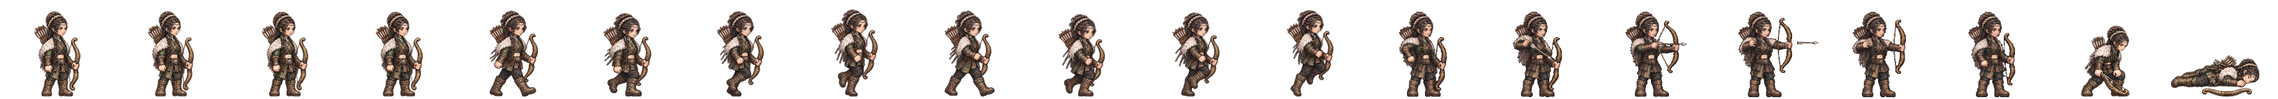
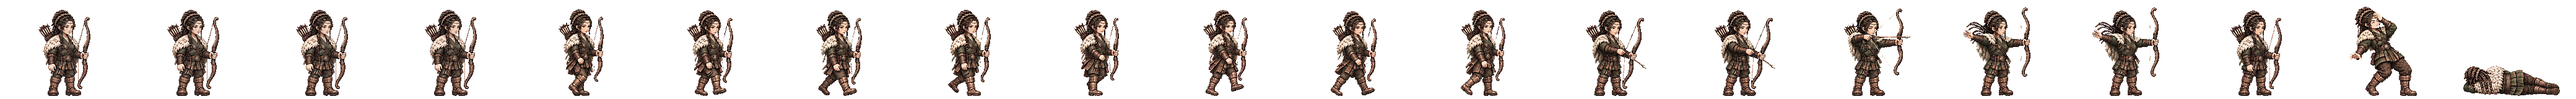
행인 너울 전투 띠를 새 방식으로: 서기·걷기·활 쏘기 네 칸·개성 동작·쓰러짐(단정)·맞음 (Codex 그림 · 걷기·활 쏘기는 한 번 다시 받음 · 활 길이 서기의 80~89%)
Claude-Session: https://claude.ai/code/session_01TRiuN7s6aDfSnaHxrkctmU

Changed region(s): [[0.0, 0.0938, 1.0, 1.0]]

diff --git a/src/realm/data/spritePx.ts b/src/realm/data/spritePx.ts
@@ -1,3 +1,3 @@
 /** public/realm/anim-px/manifest.json 의 사본 — tools/sprite-normalize.mjs 가 만든다 (손으로 고치지 말 것). 칸 [가로, 세로] · feet = 발 줄(칸 위에서 y) · bodyPx = 서 있는 몸 키 */
 import { expandManifest } from './sprite-manifest.ts'
-export const SPRITE_PX: Readonly<Record<string, { readonly cell: readonly [number, number]; readonly feet: number; readonly bodyPx: number; readonly kind: 'general' | 'soldier' | 'folk' | 'crowd'; readonly cells: number }>> = expandManifest<{ readonly cell: readonly [number, number]; readonly feet: number; readonly bodyPx: number; readonly kind: 'general' | 'soldier' | 'folk' | 'crowd'; readonly cells: number }>([{"cell":[166,128],"feet":126,"bodyPx":124,"kind":"soldier","cells":20},{"cell":[116,128],"feet":126,"bodyPx":117,"kind":"soldier","cells":20},{"cell":[127,128],"feet":126,"bodyPx":116,"kind":"soldier","cells":20},{"cell":[269,128],"feet":126,"bodyPx":126,"kind":"soldier","cells":20},{"cell":[503,128],"feet":126,"bodyPx":127,"kind":"soldier","cells":20},{"cell":[614,128],"feet":126,"bodyPx":126,"kind":"soldier","cells":20},{"cell":[200,160],"feet":156,"bodyPx":138,"kind":"general","cells":20},{"cell":[208,160],"feet":155,"bodyPx":138,"kind":"general","cells":20},{"cell":[208,160],"feet":154,"bodyPx":138,"kind":"general","cells":20},{"cell":[304,160],"feet":155,"bodyPx":135,"kind":"general","cells":20},{"cell":[184,160],"feet":156,"bodyPx":138,"kind":"general","cells":20},{"cell":[208,160],"feet":154,"bodyPx":136,"kind":"general","cells":20},{"cell":[232,160],"feet":156,"bodyPx":138,"kind":"general","cells":20},{"cell":[208,160],"feet":156,"bodyPx":138,"kind":"general","cells":20},{"cell":[168,160],"feet":156,"bodyPx":124,"kind":"general","cells":20},{"cell":[216,160],"feet":156,"bodyPx":130,"kind":"general","cells":20},{"cell":[200,160],"feet":156,"bodyPx":116,"kind":"general","cells":20},{"cell":[192,160],"feet":156,"bodyPx":138,"kind":"general","cells":20},{"cell":[208,160],"feet":154,"bodyPx":135,"kind":"general","cells":20},{"cell":[280,160],"feet":156,"bodyPx":138,"kind":"general","cells":20},{"cell":[232,160],"feet":156,"bodyPx":134,"kind":"general","cells":20},{"cell":[144,160],"feet":156,"bodyPx":70,"kind":"general","cells":20},{"cell":[208,160],"feet":156,"bodyPx":70,"kind":"general","cells":20},{"cell":[192,160],"feet":156,"bodyPx":70,"kind":"general","cells":20},{"cell":[240,160],"feet":155,"bodyPx":138,"kind":"general","cells":20},{"cell":[192,160],"feet":156,"bodyPx":128,"kind":"general","cells":20},{"cell":[208,160],"feet":154,"bodyPx":137,"kind":"general","cells":20},{"cell":[216,160],"feet":156,"bodyPx":138,"kind":"general","cells":20},{"cell":[208,160],"feet":156,"bodyPx":134,"kind":"general","cells":20},{"cell":[208,160],"feet":154,"bodyPx":130,"kind":"general","cells":20},{"cell":[248,160],"feet":156,"bodyPx":138,"kind":"general","cells":20},{"cell":[248,160],"feet":155,"bodyPx":138,"kind":"general","cells":20},{"cell":[192,160],"feet":155,"bodyPx":138,"kind":"general","cells":20},{"cell":[192,160],"feet":156,"bodyPx":124,"kind":"general","cells":20},{"cell":[208,160],"feet":154,"bodyPx":131,"kind":"general","cells":20},{"cell":[240,160],"feet":156,"bodyPx":138,"kind":"general","cells":20},{"cell":[232,160],"feet":156,"bodyPx":73,"kind":"general","cells":20},{"cell":[224,160],"feet":156,"bodyPx":138,"kind":"general","cells":20},{"cell":[224,160],"feet":156,"bodyPx":128,"kind":"general","cells":20},{"cell":[176,160],"feet":156,"bodyPx":129,"kind":"general","cells":20},{"cell":[208,160],"feet":154,"bodyPx":139,"kind":"general","cells":20},{"cell":[232,160],"feet":155,"bodyPx":138,"kind":"general","cells":20},{"cell":[208,160],"feet":156,"bodyPx":132,"kind":"general","cells":20},{"cell":[184,160],"feet":156,"bodyPx":122,"kind":"general","cells":20},{"cell":[280,160],"feet":155,"bodyPx":133,"kind":"general","cells":20},{"cell":[176,160],"feet":156,"bodyPx":70,"kind":"general","cells":20},{"cell":[186,128],"feet":126,"bodyPx":127,"kind":"soldier","cells":20},{"cell":[298,128],"feet":126,"bodyPx":126,"kind":"soldier","cells":20},{"cell":[82,128],"feet":126,"bodyPx":114,"kind":"folk","cells":8},{"cell":[134,128],"feet":126,"bodyPx":119,"kind":"soldier","cells":20},{"cell":[380,128],"feet":126,"bodyPx":124,"kind":"soldier","cells":20},{"cell":[114,128],"feet":126,"bodyPx":115,"kind":"soldier","cells":20},{"cell":[122,128],"feet":126,"bodyPx":114,"kind":"soldier","cells":20},{"cell":[254,128],"feet":126,"bodyPx":128,"kind":"soldier","cells":20},{"cell":[438,128],"feet":126,"bodyPx":126,"kind":"soldier","cells":20},{"cell":[88,128],"feet":126,"bodyPx":113,"kind":"folk","cells":8},{"cell":[100,128],"feet":126,"bodyPx":115,"kind":"folk","cells":8},{"cell":[108,128],"feet":126,"bodyPx":115,"kind":"folk","cells":8},{"cell":[63,128],"feet":126,"bodyPx":113,"kind":"folk","cells":8},{"cell":[69,96],"feet":96,"bodyPx":96,"kind":"crowd","cells":1},{"cell":[54,96],"feet":96,"bodyPx":96,"kind":"crowd","cells":1},{"cell":[47,96],"feet":96,"bodyPx":96,"kind":"crowd","cells":1},{"cell":[49,96],"feet":96,"bodyPx":96,"kind":"crowd","cells":1},{"cell":[57,96],"feet":96,"bodyPx":96,"kind":"crowd","cells":1},{"cell":[55,96],"feet":96,"bodyPx":96,"kind":"crowd","cells":1},{"cell":[45,96],"feet":96,"bodyPx":96,"kind":"crowd","cells":1},{"cell":[53,96],"feet":96,"bodyPx":96,"kind":"crowd","cells":1},{"cell":[64,96],"feet":96,"bodyPx":96,"kind":"crowd","cells":1},{"cell":[264,160],"feet":156,"bodyPx":138,"kind":"general","cells":20},{"cell":[184,160],"feet":156,"bodyPx":124,"kind":"general","cells":20},{"cell":[256,160],"feet":156,"bodyPx":138,"kind":"general","cells":20},{"cell":[208,160],"feet":154,"bodyPx":134,"kind":"general","cells":20},{"cell":[224,160],"feet":156,"bodyPx":133,"kind":"general","cells":20},{"cell":[184,160],"feet":156,"bodyPx":137,"kind":"general","cells":20},{"cell":[176,160],"feet":156,"bodyPx":130,"kind":"general","cells":20},{"cell":[216,160],"feet":156,"bodyPx":134,"kind":"general","cells":20},{"cell":[216,160],"feet":156,"bodyPx":132,"kind":"general","cells":20},{"cell":[288,160],"feet":156,"bodyPx":138,"kind":"general","cells":20},{"cell":[192,160],"feet":156,"bodyPx":118,"kind":"general","cells":20},{"cell":[208,160],"feet":154,"bodyPx":132,"kind":"general","cells":20},{"cell":[208,160],"feet":154,"bodyPx":128,"kind":"general","cells":20},{"cell":[240,160],"feet":156,"bodyPx":128,"kind":"general","cells":20},{"cell":[184,160],"feet":156,"bodyPx":132,"kind":"general","cells":20},{"cell":[208,160],"feet":156,"bodyPx":123,"kind":"general","cells":20},{"cell":[192,160],"feet":156,"bodyPx":135,"kind":"general","cells":20},{"cell":[176,160],"feet":156,"bodyPx":116,"kind":"general","cells":20},{"cell":[272,160],"feet":156,"bodyPx":138,"kind":"general","cells":20},{"cell":[176,160],"feet":156,"bodyPx":138,"kind":"general","cells":20},{"cell":[176,160],"feet":156,"bodyPx":122,"kind":"general","cells":20},{"cell":[232,160],"feet":156,"bodyPx":127,"kind":"general","cells":20},{"cell":[184,160],"feet":156,"bodyPx":134,"kind":"general","cells":20},{"cell":[168,160],"feet":156,"bodyPx":138,"kind":"general","cells":20},{"cell":[176,160],"feet":156,"bodyPx":137,"kind":"general","cells":20},{"cell":[184,160],"feet":156,"bodyPx":133,"kind":"general","cells":20}],[["axe",0],["bandit-chief",1],["bandit-club",2],["boat",3],["bow",4],["crossbow",5],["gen-adogan",6],["gen-alpyeong",7],["gen-ara",8],["gen-areum",8],["gen-aryeong",9],["gen-bakdal",8],["gen-baram",8],["gen-bdanbi",10],["gen-beom",11],["gen-beombal",8],["gen-beomi",8],["gen-bira",12],["gen-biryu",13],["gen-budeul",8],["gen-byeol",8],["gen-daemusin",14],["gen-daeso",15],["gen-dallae2",8],["gen-dalli",8],["gen-damul",16],["gen-danbi",8],["gen-dangung",17],["gen-darae",18],["gen-dokmudeom",8],["gen-duman",19],["gen-eomni",8],["gen-eureum",20],["gen-g-bow",21],["gen-g-spear",22],["gen-g-sword",23],["gen-gaennae",8],["gen-gamsil",24],["gen-gaon",18],["gen-geota",13],["gen-geumbawi",10],["gen-geumha",25],["gen-goeun",8],["gen-gom",8],["gen-gomok",13],["gen-gureum",8],["gen-guryema",17],["gen-gwaeyu",12],["gen-haebi",8],["gen-haedal",6],["gen-haesol",8],["gen-halla",26],["gen-heo",8],["gen-hneoul",10],["gen-hogong",27],["gen-hojin",13],["gen-horselord",28],["gen-hwalmi",29],["gen-hyeokgeose",17],["gen-hyeopbo",6],["gen-irang",8],["gen-jibaekho",30],["gen-jinha",31],["gen-jita",32],["gen-jumong",33],["gen-keundol",7],["gen-maehwa",34],["gen-maenun",17],["gen-malgalgi",8],["gen-mari",35],["gen-maro",30],["gen-maryeo",13],["gen-mdallae",8],["gen-mir",6],["gen-mount",36],["gen-mulbeom",26],["gen-mulsae",26],["gen-musoe",27],["gen-noeul",8],["gen-nuri",8],["gen-ocheongan",37],["gen-odi",8],["gen-odogan",6],["gen-ogan",17],["gen-oi",38],["gen-olddaeso",20],["gen-onjo",39],["gen-pidogan",13],["gen-sagong",40],["gen-sdallae",6],["gen-sincheongan",8],["gen-singwigan",27],["gen-sinneoul",8],["gen-sobeol",41],["gen-soebi",8],["gen-soebo",42],["gen-soenun",40],["gen-sogeumbi",26],["gen-songbi",8],["gen-songyang",43],["gen-sori",8],["gen-soseono",44],["gen-suro",17],["gen-tahae",6],["gen-tneoul",8],["gen-w-bow",21],["gen-w-spear",45],["gen-waechief",13],["gen-wan",27],["gen-yeodogan",13],["gen-yucheongan",8],["gen-yusugan",30],["horse",46],["marine",47],["migrant",48],["militia",49],["pike",50],["pirate-captain",51],["pirate-sword",52],["shield",53],["spear",54],["villager-builder",55],["villager-farmer",56],["villager-porter",57],["villager-woman",58],["crowd-b1",59],["crowd-b2",60],["crowd-b3",61],["crowd-b4",62],["crowd-b5",63],["crowd-b6",64],["crowd-f1",59],["crowd-f2",64],["crowd-f3",65],["crowd-f4",66],["crowd-f5",59],["crowd-f6",67],["gen-dalbit",13],["gen-base-g-07-drunk-warrior",17],["gen-base-g-40-anya-adan",13],["gen-base-w-13-young-archer",8],["gen-base-g-03-sea-trader",35],["gen-base-w-10-pirate-captain",40],["gen-base-w-64-miri-dallae",40],["gen-base-g-41-goja-bau",35],["gen-base-g-42-dokro-garam",68],["gen-base-g-09-farmer-conscript",27],["gen-base-w-02-goguryeo-lady",8],["gen-base-w-17-mahan-pearl-diver",8],["gen-base-g-17-saro-isageum",42],["gen-base-g-18-daegaya-king",69],["gen-base-g-35-dabeol-dalgu",13],["gen-base-g-19-sabeol-veteran",27],["gen-base-w-23-usisan-whale-queen",8],["gen-base-g-36-gammun-gamdol",37],["gen-base-g-20-samul-sea-lord",70],["gen-base-g-37-eumjeup-jeup",10],["gen-base-g-38-chopal-palmae",17],["gen-base-w-75-daegaya-soemoe",8],["gen-base-g-45-dabeol-deulgae",10],["gen-base-g-04-jinhan-giant",13],["gen-base-g-08-veteran",13],["gen-base-w-18-jinhan-salt-widow",8],["gen-base-w-12-court-dancer",71],["gen-base-w-83-gyeonji-beodeul",72],["gen-base-w-05-baekje-queen",18],["gen-base-w-21-baekje-court-dancer",10],["gen-base-g-01-master-smith",73],["gen-base-g-93-jomun-solgae",74],["gen-base-g-57-bihwa-neup",35],["gen-base-w-72-eumjeup-beol",8],["gen-base-w-102-garak-dana",40],["gen-base-g-68-baekje-onnuri",13],["gen-base-w-27-mokji-jinha",6],["gen-base-g-22-ungcheon-gomnae",6],["gen-base-g-23-sangdang-soedal",13],["gen-base-g-24-wansan-onsan",6],["gen-base-g-25-balla-keunmoe",27],["gen-base-g-61-heomcheuk-bawi",27],["gen-base-g-88-wander-soeul",37],["gen-base-w-14-feast-spy",8],["gen-base-g-12-silla-youth",75],["gen-base-w-08-mahan-warrior",8],["gen-base-g-62-beonye-hanul",35],["gen-base-g-63-heomcheuk-beogeum",13],["gen-base-g-84-wander-seoneul",13],["gen-base-w-50-siljik-mulga",27],["gen-base-g-46-uga-nureongso",27],["gen-base-w-80-usan-gangchi",40],["gen-base-g-47-guga-sanyanggae",27],["gen-base-w-76-gampyeong-baetsagong",8],["gen-base-g-05-mahan-chieftain",76],["gen-base-g-58-usan-uhae",13],["gen-base-g-27-maek-maekdol",13],["gen-base-w-53-hwanna-gabi",40],["gen-base-w-29-golpo-janmul",30],["gen-base-g-53-baekje-haeru",6],["gen-base-w-71-yeonna-neoul",8],["gen-base-w-79-yangmaek-solmae",8],["gen-base-w-34-chopal-deulme",8],["gen-base-g-44-maga-malgup",77],["gen-base-w-31-dabeol-dalbit",40],["gen-base-g-51-biryuna-mulgyeol",37],["gen-base-g-48-gwanna-musoe",13],["gen-base-g-32-uga-sodu",12],["gen-base-g-49-goguryeo-sona",78],["gen-base-g-30-gwanna-soemoe",37],["gen-base-g-52-tamna-oreum",10],["gen-base-g-29-yeonna-myeongsol",33],["gen-base-w-56-dongokjeo-sogeum",71],["gen-base-g-54-mokji-mahan",12],["gen-base-g-33-jeoga-metdol",17],["gen-base-w-36-baekje-maena",8],["gen-base-w-38-sangdang-bulmae",40],["gen-base-w-39-gosaburi-galmae",8],["gen-base-w-40-mujin-munui",79],["gen-base-w-41-hwanna-beodeul",80],["gen-base-w-43-uga-nuri",70],["gen-base-w-45-tamna-oreumbi",10],["gen-base-g-60-golbeol-golgae",10],["gen-base-g-61-apdok-ap",27],["gen-base-g-62-gammun-gamnamu",6],["gen-base-g-63-chopal-yeoul",30],["gen-base-g-64-michuhol-sogeumkkun",35],["gen-base-g-65-sangdang-soemangchi",37],["gen-base-g-66-geonma-malbalgup",81],["gen-base-g-67-gosaburi-buri",82],["gen-base-g-68-mujin-bitgoeul",10],["gen-base-g-69-goryong-yong",37],["gen-base-g-70-siljik-pado",35],["gen-base-w-81-byeokjin-byeolbit",8],["gen-base-w-46-geonma-maru",8],["gen-base-w-48-mujin-mudeung",8],["gen-base-g-26-gampyeong-gaetbeol",12],["gen-base-g-60-eupcha-hangyeol",83],["gen-base-g-15-shaman-man",27],["gen-base-g-85-wander-ure",30],["gen-base-g-43-hwanna-amnok",13],["gen-base-g-50-bullae-gwaha",84],["gen-base-g-55-saro-bakdal",13],["gen-base-g-56-haseulla-gwahama",6],["gen-base-w-06-buyeo-huntress",26],["gen-base-w-22-dongye-tiger-huntress",8],["gen-base-w-25-bihwa-priestess",8],["gen-base-w-24-apdok-queen",8],["gen-base-w-61-iseo-sinae",8],["gen-base-w-26-iseo-tomboy-general",8],["gen-base-g-59-yangmaek-maekson",85],["gen-aw1-haebi",37],["gen-aw1-soseono",86],["gen-aw1-gamsil",10],["gen-aw1-mir",87],["gen-aw1-dangung",6],["gen-aw1-ara",37],["gen-aw1-jumong",88],["gen-aw1-onjo",89],["gen-aw1-base-w-83-gyeonji-beodeul",17],["gen-aw1-heo",68],["gen-aw1-base-g-38-chopal-palmae",6],["gen-aw1-base-w-25-bihwa-priestess",90],["gen-aw1-sori",91],["gen-aw1-gomok",6],["gen-aw1-irang",17],["gen-aw1-budeul",91],["gen-aw1-gom",35],["gen-aw1-sdallae",6],["gen-aw1-base-w-13-young-archer",6],["gen-aw1-base-w-36-baekje-maena",92],["gen-aw1-base-g-09-farmer-conscript",68],["gen-aw1-base-w-02-goguryeo-lady",93],["gen-aw1-haedal",10],["gen-aw1-hogong",6],["gen-aw1-maehwa",87],["gen-aw1-base-w-06-buyeo-huntress",12],["gen-aw1-base-w-08-mahan-warrior",37],["gen-aw1-base-w-29-golpo-janmul",37],["gen-aw1-base-w-31-dabeol-dalbit",17],["gen-aw1-base-w-38-sangdang-bulmae",91],["gen-aw1-bira",27],["gen-aw1-base-w-53-hwanna-gabi",91],["gen-aw1-base-w-56-dongokjeo-sogeum",87],["gen-aw1-base-w-72-eumjeup-beol",17],["gen-aw1-bdanbi",91],["gen-aw1-beom",10],["gen-aw1-beombal",10],["gen-aw1-byeol",17],["gen-aw1-dalli",87],["gen-aw1-malgalgi",30],["gen-aw1-sincheongan",27]])
+export const SPRITE_PX: Readonly<Record<string, { readonly cell: readonly [number, number]; readonly feet: number; readonly bodyPx: number; readonly kind: 'general' | 'soldier' | 'folk' | 'crowd'; readonly cells: number }>> = expandManifest<{ readonly cell: readonly [number, number]; readonly feet: number; readonly bodyPx: number; readonly kind: 'general' | 'soldier' | 'folk' | 'crowd'; readonly cells: number }>([{"cell":[166,128],"feet":126,"bodyPx":124,"kind":"soldier","cells":20},{"cell":[116,128],"feet":126,"bodyPx":117,"kind":"soldier","cells":20},{"cell":[127,128],"feet":126,"bodyPx":116,"kind":"soldier","cells":20},{"cell":[269,128],"feet":126,"bodyPx":126,"kind":"soldier","cells":20},{"cell":[503,128],"feet":126,"bodyPx":127,"kind":"soldier","cells":20},{"cell":[614,128],"feet":126,"bodyPx":126,"kind":"soldier","cells":20},{"cell":[200,160],"feet":156,"bodyPx":138,"kind":"general","cells":20},{"cell":[208,160],"feet":155,"bodyPx":138,"kind":"general","cells":20},{"cell":[208,160],"feet":154,"bodyPx":138,"kind":"general","cells":20},{"cell":[304,160],"feet":155,"bodyPx":135,"kind":"general","cells":20},{"cell":[184,160],"feet":156,"bodyPx":138,"kind":"general","cells":20},{"cell":[208,160],"feet":154,"bodyPx":136,"kind":"general","cells":20},{"cell":[232,160],"feet":156,"bodyPx":138,"kind":"general","cells":20},{"cell":[208,160],"feet":156,"bodyPx":138,"kind":"general","cells":20},{"cell":[168,160],"feet":156,"bodyPx":124,"kind":"general","cells":20},{"cell":[216,160],"feet":156,"bodyPx":130,"kind":"general","cells":20},{"cell":[200,160],"feet":156,"bodyPx":116,"kind":"general","cells":20},{"cell":[192,160],"feet":156,"bodyPx":138,"kind":"general","cells":20},{"cell":[208,160],"feet":154,"bodyPx":135,"kind":"general","cells":20},{"cell":[280,160],"feet":156,"bodyPx":138,"kind":"general","cells":20},{"cell":[232,160],"feet":156,"bodyPx":134,"kind":"general","cells":20},{"cell":[144,160],"feet":156,"bodyPx":70,"kind":"general","cells":20},{"cell":[208,160],"feet":156,"bodyPx":70,"kind":"general","cells":20},{"cell":[192,160],"feet":156,"bodyPx":70,"kind":"general","cells":20},{"cell":[240,160],"feet":155,"bodyPx":138,"kind":"general","cells":20},{"cell":[192,160],"feet":156,"bodyPx":128,"kind":"general","cells":20},{"cell":[208,160],"feet":154,"bodyPx":137,"kind":"general","cells":20},{"cell":[216,160],"feet":156,"bodyPx":138,"kind":"general","cells":20},{"cell":[208,160],"feet":156,"bodyPx":134,"kind":"general","cells":20},{"cell":[208,160],"feet":154,"bodyPx":130,"kind":"general","cells":20},{"cell":[248,160],"feet":156,"bodyPx":138,"kind":"general","cells":20},{"cell":[248,160],"feet":155,"bodyPx":138,"kind":"general","cells":20},{"cell":[192,160],"feet":155,"bodyPx":138,"kind":"general","cells":20},{"cell":[192,160],"feet":156,"bodyPx":124,"kind":"general","cells":20},{"cell":[208,160],"feet":154,"bodyPx":131,"kind":"general","cells":20},{"cell":[240,160],"feet":156,"bodyPx":138,"kind":"general","cells":20},{"cell":[232,160],"feet":156,"bodyPx":73,"kind":"general","cells":20},{"cell":[224,160],"feet":156,"bodyPx":138,"kind":"general","cells":20},{"cell":[224,160],"feet":156,"bodyPx":128,"kind":"general","cells":20},{"cell":[176,160],"feet":156,"bodyPx":129,"kind":"general","cells":20},{"cell":[208,160],"feet":154,"bodyPx":139,"kind":"general","cells":20},{"cell":[232,160],"feet":155,"bodyPx":138,"kind":"general","cells":20},{"cell":[208,160],"feet":156,"bodyPx":132,"kind":"general","cells":20},{"cell":[184,160],"feet":156,"bodyPx":122,"kind":"general","cells":20},{"cell":[280,160],"feet":155,"bodyPx":133,"kind":"general","cells":20},{"cell":[176,160],"feet":156,"bodyPx":70,"kind":"general","cells":20},{"cell":[186,128],"feet":126,"bodyPx":127,"kind":"soldier","cells":20},{"cell":[298,128],"feet":126,"bodyPx":126,"kind":"soldier","cells":20},{"cell":[82,128],"feet":126,"bodyPx":114,"kind":"folk","cells":8},{"cell":[134,128],"feet":126,"bodyPx":119,"kind":"soldier","cells":20},{"cell":[380,128],"feet":126,"bodyPx":124,"kind":"soldier","cells":20},{"cell":[114,128],"feet":126,"bodyPx":115,"kind":"soldier","cells":20},{"cell":[122,128],"feet":126,"bodyPx":114,"kind":"soldier","cells":20},{"cell":[254,128],"feet":126,"bodyPx":128,"kind":"soldier","cells":20},{"cell":[438,128],"feet":126,"bodyPx":126,"kind":"soldier","cells":20},{"cell":[88,128],"feet":126,"bodyPx":113,"kind":"folk","cells":8},{"cell":[100,128],"feet":126,"bodyPx":115,"kind":"folk","cells":8},{"cell":[108,128],"feet":126,"bodyPx":115,"kind":"folk","cells":8},{"cell":[63,128],"feet":126,"bodyPx":113,"kind":"folk","cells":8},{"cell":[69,96],"feet":96,"bodyPx":96,"kind":"crowd","cells":1},{"cell":[54,96],"feet":96,"bodyPx":96,"kind":"crowd","cells":1},{"cell":[47,96],"feet":96,"bodyPx":96,"kind":"crowd","cells":1},{"cell":[49,96],"feet":96,"bodyPx":96,"kind":"crowd","cells":1},{"cell":[57,96],"feet":96,"bodyPx":96,"kind":"crowd","cells":1},{"cell":[55,96],"feet":96,"bodyPx":96,"kind":"crowd","cells":1},{"cell":[45,96],"feet":96,"bodyPx":96,"kind":"crowd","cells":1},{"cell":[53,96],"feet":96,"bodyPx":96,"kind":"crowd","cells":1},{"cell":[64,96],"feet":96,"bodyPx":96,"kind":"crowd","cells":1},{"cell":[264,160],"feet":156,"bodyPx":138,"kind":"general","cells":20},{"cell":[184,160],"feet":156,"bodyPx":124,"kind":"general","cells":20},{"cell":[256,160],"feet":156,"bodyPx":138,"kind":"general","cells":20},{"cell":[208,160],"feet":154,"bodyPx":134,"kind":"general","cells":20},{"cell":[224,160],"feet":156,"bodyPx":133,"kind":"general","cells":20},{"cell":[184,160],"feet":156,"bodyPx":137,"kind":"general","cells":20},{"cell":[176,160],"feet":156,"bodyPx":130,"kind":"general","cells":20},{"cell":[216,160],"feet":156,"bodyPx":134,"kind":"general","cells":20},{"cell":[216,160],"feet":156,"bodyPx":132,"kind":"general","cells":20},{"cell":[288,160],"feet":156,"bodyPx":138,"kind":"general","cells":20},{"cell":[192,160],"feet":156,"bodyPx":118,"kind":"general","cells":20},{"cell":[208,160],"feet":154,"bodyPx":132,"kind":"general","cells":20},{"cell":[208,160],"feet":154,"bodyPx":128,"kind":"general","cells":20},{"cell":[240,160],"feet":156,"bodyPx":128,"kind":"general","cells":20},{"cell":[184,160],"feet":156,"bodyPx":132,"kind":"general","cells":20},{"cell":[208,160],"feet":156,"bodyPx":123,"kind":"general","cells":20},{"cell":[192,160],"feet":156,"bodyPx":135,"kind":"general","cells":20},{"cell":[176,160],"feet":156,"bodyPx":116,"kind":"general","cells":20},{"cell":[272,160],"feet":156,"bodyPx":138,"kind":"general","cells":20},{"cell":[176,160],"feet":156,"bodyPx":138,"kind":"general","cells":20},{"cell":[176,160],"feet":156,"bodyPx":122,"kind":"general","cells":20},{"cell":[232,160],"feet":156,"bodyPx":127,"kind":"general","cells":20},{"cell":[184,160],"feet":156,"bodyPx":134,"kind":"general","cells":20},{"cell":[168,160],"feet":156,"bodyPx":138,"kind":"general","cells":20},{"cell":[176,160],"feet":156,"bodyPx":137,"kind":"general","cells":20},{"cell":[184,160],"feet":156,"bodyPx":133,"kind":"general","cells":20}],[["axe",0],["bandit-chief",1],["bandit-club",2],["boat",3],["bow",4],["crossbow",5],["gen-adogan",6],["gen-alpyeong",7],["gen-ara",8],["gen-areum",8],["gen-aryeong",9],["gen-bakdal",8],["gen-baram",8],["gen-bdanbi",10],["gen-beom",11],["gen-beombal",8],["gen-beomi",8],["gen-bira",12],["gen-biryu",13],["gen-budeul",8],["gen-byeol",8],["gen-daemusin",14],["gen-daeso",15],["gen-dallae2",8],["gen-dalli",8],["gen-damul",16],["gen-danbi",8],["gen-dangung",17],["gen-darae",18],["gen-dokmudeom",8],["gen-duman",19],["gen-eomni",8],["gen-eureum",20],["gen-g-bow",21],["gen-g-spear",22],["gen-g-sword",23],["gen-gaennae",8],["gen-gamsil",24],["gen-gaon",18],["gen-geota",13],["gen-geumbawi",10],["gen-geumha",25],["gen-goeun",8],["gen-gom",8],["gen-gomok",13],["gen-gureum",8],["gen-guryema",17],["gen-gwaeyu",12],["gen-haebi",8],["gen-haedal",6],["gen-haesol",8],["gen-halla",26],["gen-heo",8],["gen-hneoul",27],["gen-hogong",27],["gen-hojin",13],["gen-horselord",28],["gen-hwalmi",29],["gen-hyeokgeose",17],["gen-hyeopbo",6],["gen-irang",8],["gen-jibaekho",30],["gen-jinha",31],["gen-jita",32],["gen-jumong",33],["gen-keundol",7],["gen-maehwa",34],["gen-maenun",17],["gen-malgalgi",8],["gen-mari",35],["gen-maro",30],["gen-maryeo",13],["gen-mdallae",8],["gen-mir",6],["gen-mount",36],["gen-mulbeom",26],["gen-mulsae",26],["gen-musoe",27],["gen-noeul",8],["gen-nuri",8],["gen-ocheongan",37],["gen-odi",8],["gen-odogan",6],["gen-ogan",17],["gen-oi",38],["gen-olddaeso",20],["gen-onjo",39],["gen-pidogan",13],["gen-sagong",40],["gen-sdallae",6],["gen-sincheongan",8],["gen-singwigan",27],["gen-sinneoul",8],["gen-sobeol",41],["gen-soebi",8],["gen-soebo",42],["gen-soenun",40],["gen-sogeumbi",26],["gen-songbi",8],["gen-songyang",43],["gen-sori",8],["gen-soseono",44],["gen-suro",17],["gen-tahae",6],["gen-tneoul",8],["gen-w-bow",21],["gen-w-spear",45],["gen-waechief",13],["gen-wan",27],["gen-yeodogan",13],["gen-yucheongan",8],["gen-yusugan",30],["horse",46],["marine",47],["migrant",48],["militia",49],["pike",50],["pirate-captain",51],["pirate-sword",52],["shield",53],["spear",54],["villager-builder",55],["villager-farmer",56],["villager-porter",57],["villager-woman",58],["crowd-b1",59],["crowd-b2",60],["crowd-b3",61],["crowd-b4",62],["crowd-b5",63],["crowd-b6",64],["crowd-f1",59],["crowd-f2",64],["crowd-f3",65],["crowd-f4",66],["crowd-f5",59],["crowd-f6",67],["gen-dalbit",13],["gen-base-g-07-drunk-warrior",17],["gen-base-g-40-anya-adan",13],["gen-base-w-13-young-archer",8],["gen-base-g-03-sea-trader",35],["gen-base-w-10-pirate-captain",40],["gen-base-w-64-miri-dallae",40],["gen-base-g-41-goja-bau",35],["gen-base-g-42-dokro-garam",68],["gen-base-g-09-farmer-conscript",27],["gen-base-w-02-goguryeo-lady",8],["gen-base-w-17-mahan-pearl-diver",8],["gen-base-g-17-saro-isageum",42],["gen-base-g-18-daegaya-king",69],["gen-base-g-35-dabeol-dalgu",13],["gen-base-g-19-sabeol-veteran",27],["gen-base-w-23-usisan-whale-queen",8],["gen-base-g-36-gammun-gamdol",37],["gen-base-g-20-samul-sea-lord",70],["gen-base-g-37-eumjeup-jeup",10],["gen-base-g-38-chopal-palmae",17],["gen-base-w-75-daegaya-soemoe",8],["gen-base-g-45-dabeol-deulgae",10],["gen-base-g-04-jinhan-giant",13],["gen-base-g-08-veteran",13],["gen-base-w-18-jinhan-salt-widow",8],["gen-base-w-12-court-dancer",71],["gen-base-w-83-gyeonji-beodeul",72],["gen-base-w-05-baekje-queen",18],["gen-base-w-21-baekje-court-dancer",10],["gen-base-g-01-master-smith",73],["gen-base-g-93-jomun-solgae",74],["gen-base-g-57-bihwa-neup",35],["gen-base-w-72-eumjeup-beol",8],["gen-base-w-102-garak-dana",40],["gen-base-g-68-baekje-onnuri",13],["gen-base-w-27-mokji-jinha",6],["gen-base-g-22-ungcheon-gomnae",6],["gen-base-g-23-sangdang-soedal",13],["gen-base-g-24-wansan-onsan",6],["gen-base-g-25-balla-keunmoe",27],["gen-base-g-61-heomcheuk-bawi",27],["gen-base-g-88-wander-soeul",37],["gen-base-w-14-feast-spy",8],["gen-base-g-12-silla-youth",75],["gen-base-w-08-mahan-warrior",8],["gen-base-g-62-beonye-hanul",35],["gen-base-g-63-heomcheuk-beogeum",13],["gen-base-g-84-wander-seoneul",13],["gen-base-w-50-siljik-mulga",27],["gen-base-g-46-uga-nureongso",27],["gen-base-w-80-usan-gangchi",40],["gen-base-g-47-guga-sanyanggae",27],["gen-base-w-76-gampyeong-baetsagong",8],["gen-base-g-05-mahan-chieftain",76],["gen-base-g-58-usan-uhae",13],["gen-base-g-27-maek-maekdol",13],["gen-base-w-53-hwanna-gabi",40],["gen-base-w-29-golpo-janmul",30],["gen-base-g-53-baekje-haeru",6],["gen-base-w-71-yeonna-neoul",8],["gen-base-w-79-yangmaek-solmae",8],["gen-base-w-34-chopal-deulme",8],["gen-base-g-44-maga-malgup",77],["gen-base-w-31-dabeol-dalbit",40],["gen-base-g-51-biryuna-mulgyeol",37],["gen-base-g-48-gwanna-musoe",13],["gen-base-g-32-uga-sodu",12],["gen-base-g-49-goguryeo-sona",78],["gen-base-g-30-gwanna-soemoe",37],["gen-base-g-52-tamna-oreum",10],["gen-base-g-29-yeonna-myeongsol",33],["gen-base-w-56-dongokjeo-sogeum",71],["gen-base-g-54-mokji-mahan",12],["gen-base-g-33-jeoga-metdol",17],["gen-base-w-36-baekje-maena",8],["gen-base-w-38-sangdang-bulmae",40],["gen-base-w-39-gosaburi-galmae",8],["gen-base-w-40-mujin-munui",79],["gen-base-w-41-hwanna-beodeul",80],["gen-base-w-43-uga-nuri",70],["gen-base-w-45-tamna-oreumbi",10],["gen-base-g-60-golbeol-golgae",10],["gen-base-g-61-apdok-ap",27],["gen-base-g-62-gammun-gamnamu",6],["gen-base-g-63-chopal-yeoul",30],["gen-base-g-64-michuhol-sogeumkkun",35],["gen-base-g-65-sangdang-soemangchi",37],["gen-base-g-66-geonma-malbalgup",81],["gen-base-g-67-gosaburi-buri",82],["gen-base-g-68-mujin-bitgoeul",10],["gen-base-g-69-goryong-yong",37],["gen-base-g-70-siljik-pado",35],["gen-base-w-81-byeokjin-byeolbit",8],["gen-base-w-46-geonma-maru",8],["gen-base-w-48-mujin-mudeung",8],["gen-base-g-26-gampyeong-gaetbeol",12],["gen-base-g-60-eupcha-hangyeol",83],["gen-base-g-15-shaman-man",27],["gen-base-g-85-wander-ure",30],["gen-base-g-43-hwanna-amnok",13],["gen-base-g-50-bullae-gwaha",84],["gen-base-g-55-saro-bakdal",13],["gen-base-g-56-haseulla-gwahama",6],["gen-base-w-06-buyeo-huntress",26],["gen-base-w-22-dongye-tiger-huntress",8],["gen-base-w-25-bihwa-priestess",8],["gen-base-w-24-apdok-queen",8],["gen-base-w-61-iseo-sinae",8],["gen-base-w-26-iseo-tomboy-general",8],["gen-base-g-59-yangmaek-maekson",85],["gen-aw1-haebi",37],["gen-aw1-soseono",86],["gen-aw1-gamsil",10],["gen-aw1-mir",87],["gen-aw1-dangung",6],["gen-aw1-ara",37],["gen-aw1-jumong",88],["gen-aw1-onjo",89],["gen-aw1-base-w-83-gyeonji-beodeul",17],["gen-aw1-heo",68],["gen-aw1-base-g-38-chopal-palmae",6],["gen-aw1-base-w-25-bihwa-priestess",90],["gen-aw1-sori",91],["gen-aw1-gomok",6],["gen-aw1-irang",17],["gen-aw1-budeul",91],["gen-aw1-gom",35],["gen-aw1-sdallae",6],["gen-aw1-base-w-13-young-archer",6],["gen-aw1-base-w-36-baekje-maena",92],["gen-aw1-base-g-09-farmer-conscript",68],["gen-aw1-base-w-02-goguryeo-lady",93],["gen-aw1-haedal",10],["gen-aw1-hogong",6],["gen-aw1-maehwa",87],["gen-aw1-base-w-06-buyeo-huntress",12],["gen-aw1-base-w-08-mahan-warrior",37],["gen-aw1-base-w-29-golpo-janmul",37],["gen-aw1-base-w-31-dabeol-dalbit",17],["gen-aw1-base-w-38-sangdang-bulmae",91],["gen-aw1-bira",27],["gen-aw1-base-w-53-hwanna-gabi",91],["gen-aw1-base-w-56-dongokjeo-sogeum",87],["gen-aw1-base-w-72-eumjeup-beol",17],["gen-aw1-bdanbi",91],["gen-aw1-beom",10],["gen-aw1-beombal",10],["gen-aw1-byeol",17],["gen-aw1-dalli",87],["gen-aw1-malgalgi",30],["gen-aw1-sincheongan",27]])

diff --git a/src/duel/view.ts b/src/duel/view.ts
@@ -100,7 +100,7 @@ const crowdFront = [1, 2, 3, 4, 5, 6].map((i) => img(`realm/duel/crowd/b${i}.png
 const crowdReady = (set: HTMLImageElement[]): boolean => set.every((im) => im.complete && im.naturalWidth > 0)
 const pxMode = cfg.px !== false && params.get('px') !== '0'
 /** 겨루기 전용 옛 띠(duel/sprites) 대신 열전과 같은 도트 띠(anim-px)를 쓰는 장수 — 두 판에서 같은 모습 · 서기 계획·쓰러지는 칸도 같다 (11-23 범 · 매화 · 달빛 · 11-24 해비 · 아룸) */
-const PX_DUEL: ReadonlySet<string> = new Set(['beom', 'maehwa', 'base-w-31-dabeol-dalbit', 'haebi', 'areum', 'base-w-13-young-archer', 'base-w-10-pirate-captain', 'base-w-17-mahan-pearl-diver', 'base-w-06-buyeo-huntress', 'base-w-64-miri-dallae', 'ara', 'base-w-22-dongye-tiger-huntress', 'noeul', 'sagong', 'sinneoul', 'heo', 'base-w-08-mahan-warrior', 'base-w-23-usisan-whale-queen', 'base-w-26-iseo-tomboy-general', 'base-w-72-eumjeup-beol', 'tneoul', 'odi', 'base-w-76-gampyeong-baetsagong', 'base-w-34-chopal-deulme', 'base-w-102-garak-dana', 'base-w-36-baekje-maena', 'base-w-56-dongokjeo-sogeum', 'budeul', 'base-w-53-hwanna-gabi', 'base-w-18-jinhan-salt-widow', 'beombal', 'irang', 'sogeumbi', 'baram', 'byeol', 'base-w-71-yeonna-neoul', 'base-w-39-gosaburi-galmae', 'base-w-41-hwanna-beodeul', 'base-w-79-yangmaek-solmae', 'base-w-46-geonma-maru', 'base-w-48-mujin-mudeung', 'base-w-80-usan-gangchi', 'base-w-81-byeokjin-byeolbit', 'beomi', 'danbi', 'dalli', 'gureum', 'haesol', 'soenun', 'eomni', 'mulbeom', 'mulsae', 'bakdal', 'darae', 'sori', 'base-w-12-court-dancer', 'hwalmi', 'gaennae', 'dokmudeom', 'base-w-14-feast-spy', 'base-w-25-bihwa-priestess', 'sincheongan', 'base-w-40-mujin-munui', 'halla', 'yucheongan', 'base-w-02-goguryeo-lady', 'gaon', 'base-w-24-apdok-queen', 'base-w-61-iseo-sinae', 'goeun', 'base-w-05-baekje-queen', 'mdallae', 'nuri', 'base-w-75-daegaya-soemoe', 'soebi', 'base-w-38-sangdang-bulmae', 'gom', 'songbi', 'malgalgi', 'dallae2'])
+const PX_DUEL: ReadonlySet<string> = new Set(['beom', 'maehwa', 'base-w-31-dabeol-dalbit', 'haebi', 'areum', 'base-w-13-young-archer', 'base-w-10-pirate-captain', 'base-w-17-mahan-pearl-diver', 'base-w-06-buyeo-huntress', 'base-w-64-miri-dallae', 'ara', 'base-w-22-dongye-tiger-huntress', 'noeul', 'sagong', 'sinneoul', 'heo', 'base-w-08-mahan-warrior', 'base-w-23-usisan-whale-queen', 'base-w-26-iseo-tomboy-general', 'base-w-72-eumjeup-beol', 'tneoul', 'odi', 'base-w-76-gampyeong-baetsagong', 'base-w-34-chopal-deulme', 'base-w-102-garak-dana', 'base-w-36-baekje-maena', 'base-w-56-dongokjeo-sogeum', 'budeul', 'base-w-53-hwanna-gabi', 'base-w-18-jinhan-salt-widow', 'beombal', 'irang', 'sogeumbi', 'baram', 'byeol', 'base-w-71-yeonna-neoul', 'base-w-39-gosaburi-galmae', 'base-w-41-hwanna-beodeul', 'base-w-79-yangmaek-solmae', 'base-w-46-geonma-maru', 'base-w-48-mujin-mudeung', 'base-w-80-usan-gangchi', 'base-w-81-byeokjin-byeolbit', 'beomi', 'danbi', 'dalli', 'gureum', 'haesol', 'soenun', 'eomni', 'mulbeom', 'mulsae', 'bakdal', 'darae', 'sori', 'base-w-12-court-dancer', 'hwalmi', 'gaennae', 'dokmudeom', 'base-w-14-feast-spy', 'base-w-25-bihwa-priestess', 'sincheongan', 'base-w-40-mujin-munui', 'halla', 'yucheongan', 'base-w-02-goguryeo-lady', 'gaon', 'base-w-24-apdok-queen', 'base-w-61-iseo-sinae', 'goeun', 'base-w-05-baekje-queen', 'mdallae', 'nuri', 'base-w-75-daegaya-soemoe', 'soebi', 'base-w-38-sangdang-bulmae', 'gom', 'songbi', 'malgalgi', 'dallae2', 'hneoul'])
 /** 띠 그림 — 기본은 anim-px(도트 규격) 먼저, 없으면 옛 띠로 (img 의 onerror 가 갈아 끼운다) */
 const strip = (s: string): HTMLImageElement => pxMode
   ? DUEL_ATLASES[s] !== undefined && !PX_DUEL.has(s) ? img(`realm/duel/sprites/gen-${s}.png`, `realm/anim-px/gen-${s}.png`)

diff --git a/src/tune/params.ts b/src/tune/params.ts
@@ -1540,6 +1540,7 @@ export const HAEBI_IDLE = {
     songbi: { cells: 30, base: [0, 1], hold: 2.4, fall: [18, 20, 21, 19], quirk: [22, 23, 24, 25], quirkTimes: [.28, .3, .42, .25], hurt: [26, 27], rise: [28, 29] },
     malgalgi: { cells: 38, base: [0, 1], hold: 2.4, fall: [18, 20, 21, 19], quirk: [22, 23, 24, 25], quirkTimes: [.3, .32, .4, .28], attack: { cells: [26, 27, 28, 29, 30, 31, 32, 33], times: [.09, .08, .22, .05, .15, .07, .08, .12], hit: 4 }, hurt: [34, 35], rise: [36, 37], xGeom: { h: 224, root: 92, foot: 216 } },
     dallae2: { cells: 38, base: [0, 1], hold: 2.4, fall: [18, 20, 21, 19], quirk: [22, 23, 24, 25], quirkTimes: [.3, .32, .4, .28], attack: { cells: [26, 27, 28, 29, 30, 31, 32, 33], times: [.09, .08, .11, .05, .15, .07, .08, .12], hit: 4 }, hurt: [34, 35], rise: [36, 37], xGeom: { h: 224, root: 92, foot: 216 } },
+    hneoul: { cells: 30, base: [0, 1], hold: 2.4, fall: [18, 20, 21, 19], quirk: [22, 23, 24, 25], quirkTimes: [.28, .3, .42, .25], hurt: [26, 27], rise: [28, 29] },
   },
 } as const
 export const HAEBI_ANIM = {

diff --git a/tools/sprite-kit/anim-harness.py b/tools/sprite-kit/anim-harness.py
@@ -74,6 +74,7 @@ HEROES = {
     'haedal': dict(strip='gen-haedal', atk='bow', atk8=False),   # 부여 해달(활 · 가슴 M) · 아홉째 묶음
     'hwalmi': dict(hit=True, strip='gen-hwalmi', atk='bow', atk8=False),   # 고구려 활미(활 · 가슴 M) · 아홉째 묶음
     'wan': dict(strip='gen-wan', atk='bow', atk8=False),   # 완산 완(활 · 가슴 M) · 아홉째 묶음
+    'hneoul': dict(hit=True, strip='gen-hneoul', atk='bow', atk8=False),   # 행인 너울(활 · 가는 몸 · 가슴 M) · 열셋째 묶음
     'sogeum': dict(hit=True, strip='gen-base-w-56-dongokjeo-sogeum', atk='slash', atk8=True, act=True, legacy=(('a', 1), ('a', 3), ('b', 2), ('b', 4))),   # 동옥저 소금 상인(단검 · 가슴 XL) · 좁은 칸은 아라처럼 덜 뻗은 칸
     'budeul': dict(hit=True, strip='gen-budeul', atk='slash', atk8=True, act=True, legacy=(('a', 1), ('a', 3), ('b', 2), ('b', 4))),   # 골벌 부들(단검 · 가슴 L)
     'gabi': dict(hit=True, strip='gen-base-w-53-hwanna-gabi', atk='slash', atk8=True, act=True, legacy=(('a', 1), ('a', 3), ('b', 2), ('b', 4))),   # 환나 가비(단검 · 가슴 L)
